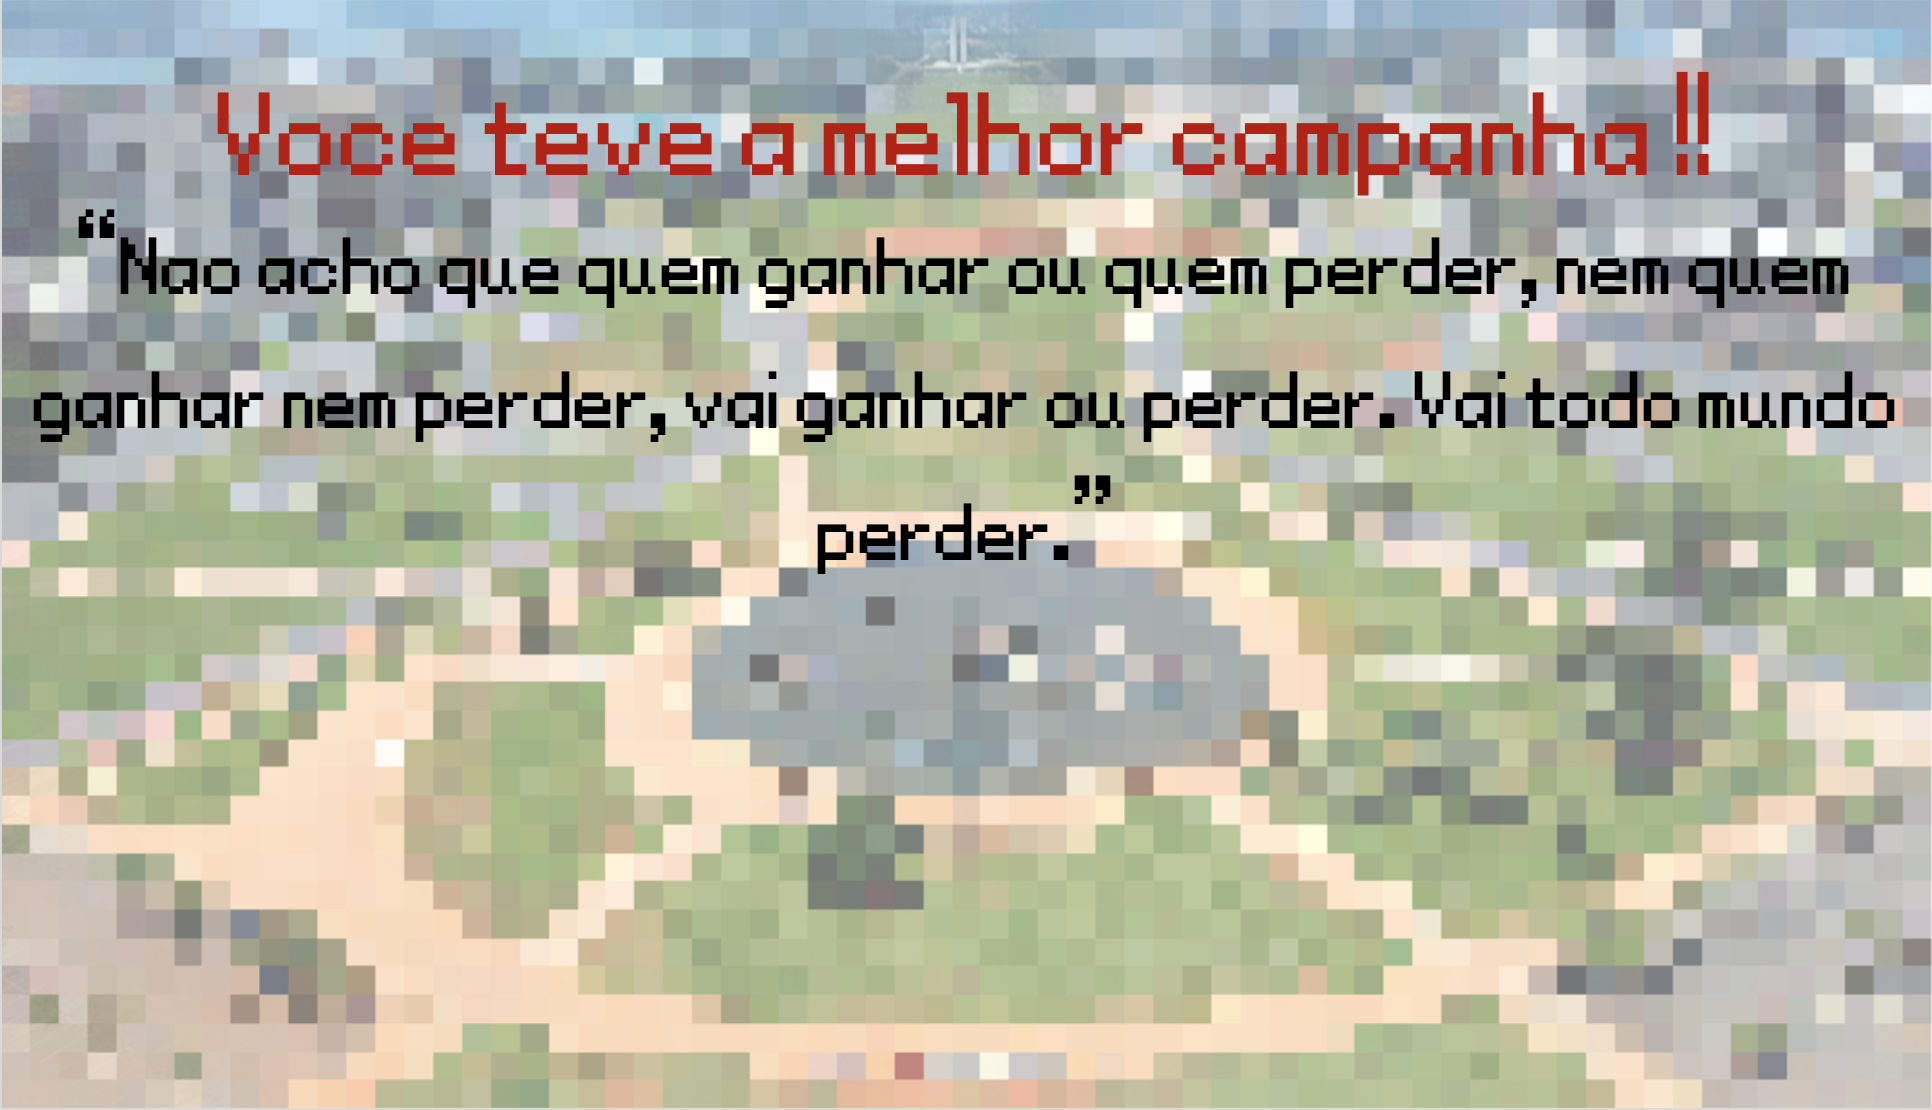
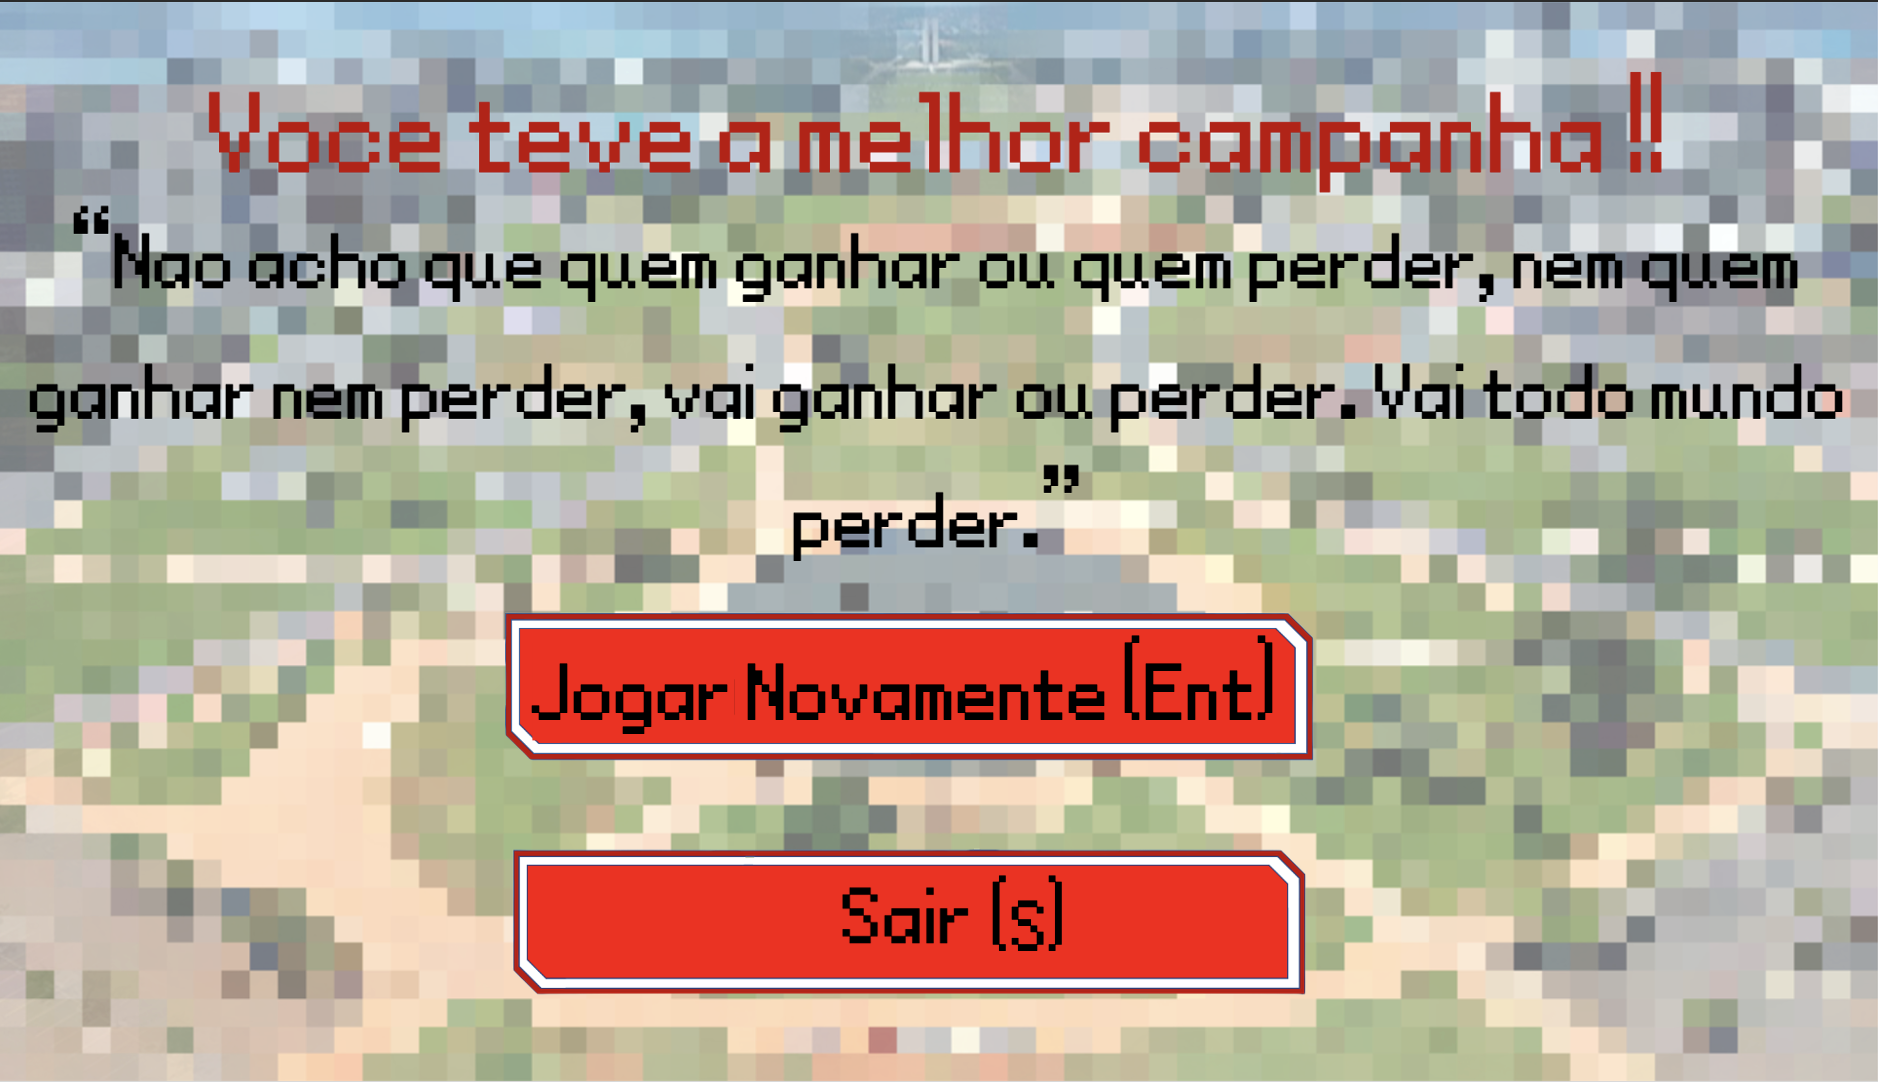
recomeçar/sair

diff --git a/jogar_novamente.py b/jogar_novamente.py
@@ -15,7 +15,7 @@ pygame.mixer.init()
 def jogar_novamente_screen(screen,condicao,WIDTH, HEIGHT):
     #unidade de tempo
     clock=pygame.time.Clock()
-
+    saida = ENCERRAR
 
     #carrega botões
     sair_img = pygame.image.load(path.join(IMG_DIR,'Sair.png')).convert_alpha()
@@ -46,20 +46,35 @@ def jogar_novamente_screen(screen,condicao,WIDTH, HEIGHT):
         #carregar o fundo da tela de menu
         if condicao==VITORIA:
             
-            Derrota=pygame.image.load(path.join(IMG_DIR, 'Vitoria.png')).convert()
-            Derrota_small = pygame.transform.scale(Derrota, (WIDTH, HEIGHT))
-            for event in pygame.event.get():
-                if event.type == pygame.QUIT:
-                    rodando=False
+            Vitoria=pygame.image.load(path.join(IMG_DIR, 'Vitoria.png')).convert()
+            Vitoria_small = pygame.transform.scale(Vitoria, (WIDTH, HEIGHT))
 
             #primeira tela final
             screen.fill((0,0,0))
             screen.blit(Derrota_small,(0,0))
             pygame.display.update()
+            for event in pygame.event.get():
+                if event.type == pygame.QUIT:
+                    rodando=False
+                if event.type == pygame.KEYUP:
+                    if event.key == pygame.K_s:
+                        rodando= False
+                    if event.key == pygame.K_RETURN:
+                        saida =  MENU
+                        rodando = False
         
         elif condicao==EMPATE:
             Derrota=pygame.image.load(path.join(IMG_DIR, 'GameOver.png')).convert()
             Derrota_small = pygame.transform.scale(Derrota, (WIDTH, HEIGHT))
+            for event in pygame.event.get():
+                if event.type == pygame.QUIT:
+                    rodando=False
+                if event.type == pygame.KEYUP:
+                    if event.key == pygame.K_s:
+                        rodando= False
+                    if event.key == pygame.K_RETURN:
+                        saida =  MENU
+                        rodando = False
 
             #segunda tela final
             screen.fill((0,0,0))
@@ -69,11 +84,20 @@ def jogar_novamente_screen(screen,condicao,WIDTH, HEIGHT):
         else:
             Derrota=pygame.image.load(path.join(IMG_DIR, 'GameOver.png')).convert()
             Derrota_small = pygame.transform.scale(Derrota, (WIDTH, HEIGHT))
+            for event in pygame.event.get():
+                if event.type == pygame.QUIT:
+                    rodando=False
+                if event.type == pygame.KEYUP:
+                    if event.key == pygame.K_s:
+                        rodando= False
+                    if event.key == pygame.K_RETURN:
+                        saida =  MENU
+                        rodando = False
 
             #terceira tela de final
             screen.fill((0,0,0))
             screen.blit(Derrota_small,(0,0))
             pygame.display.update()
-    return ENCERRAR
+    return saida
 
 
